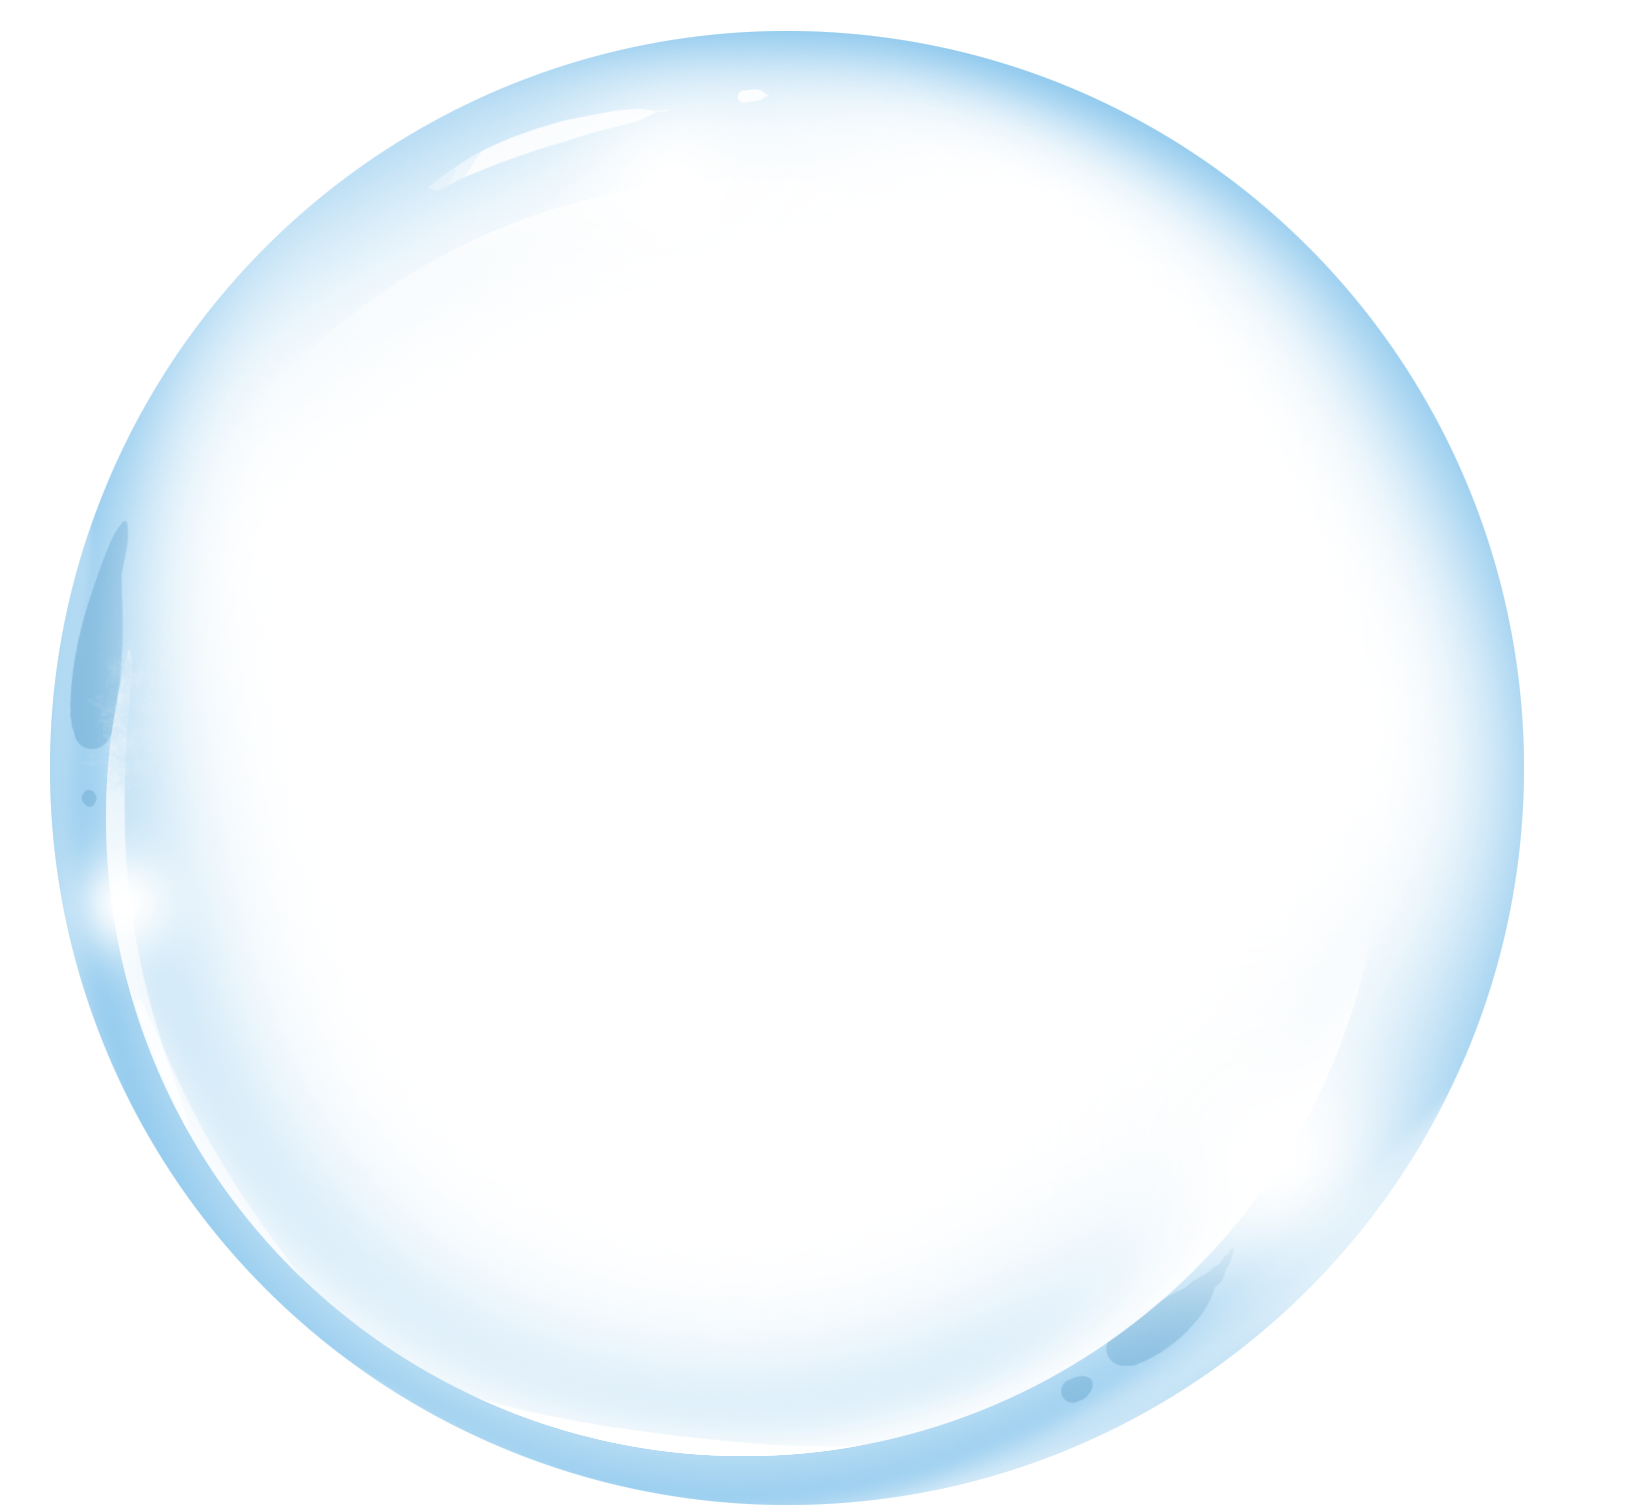
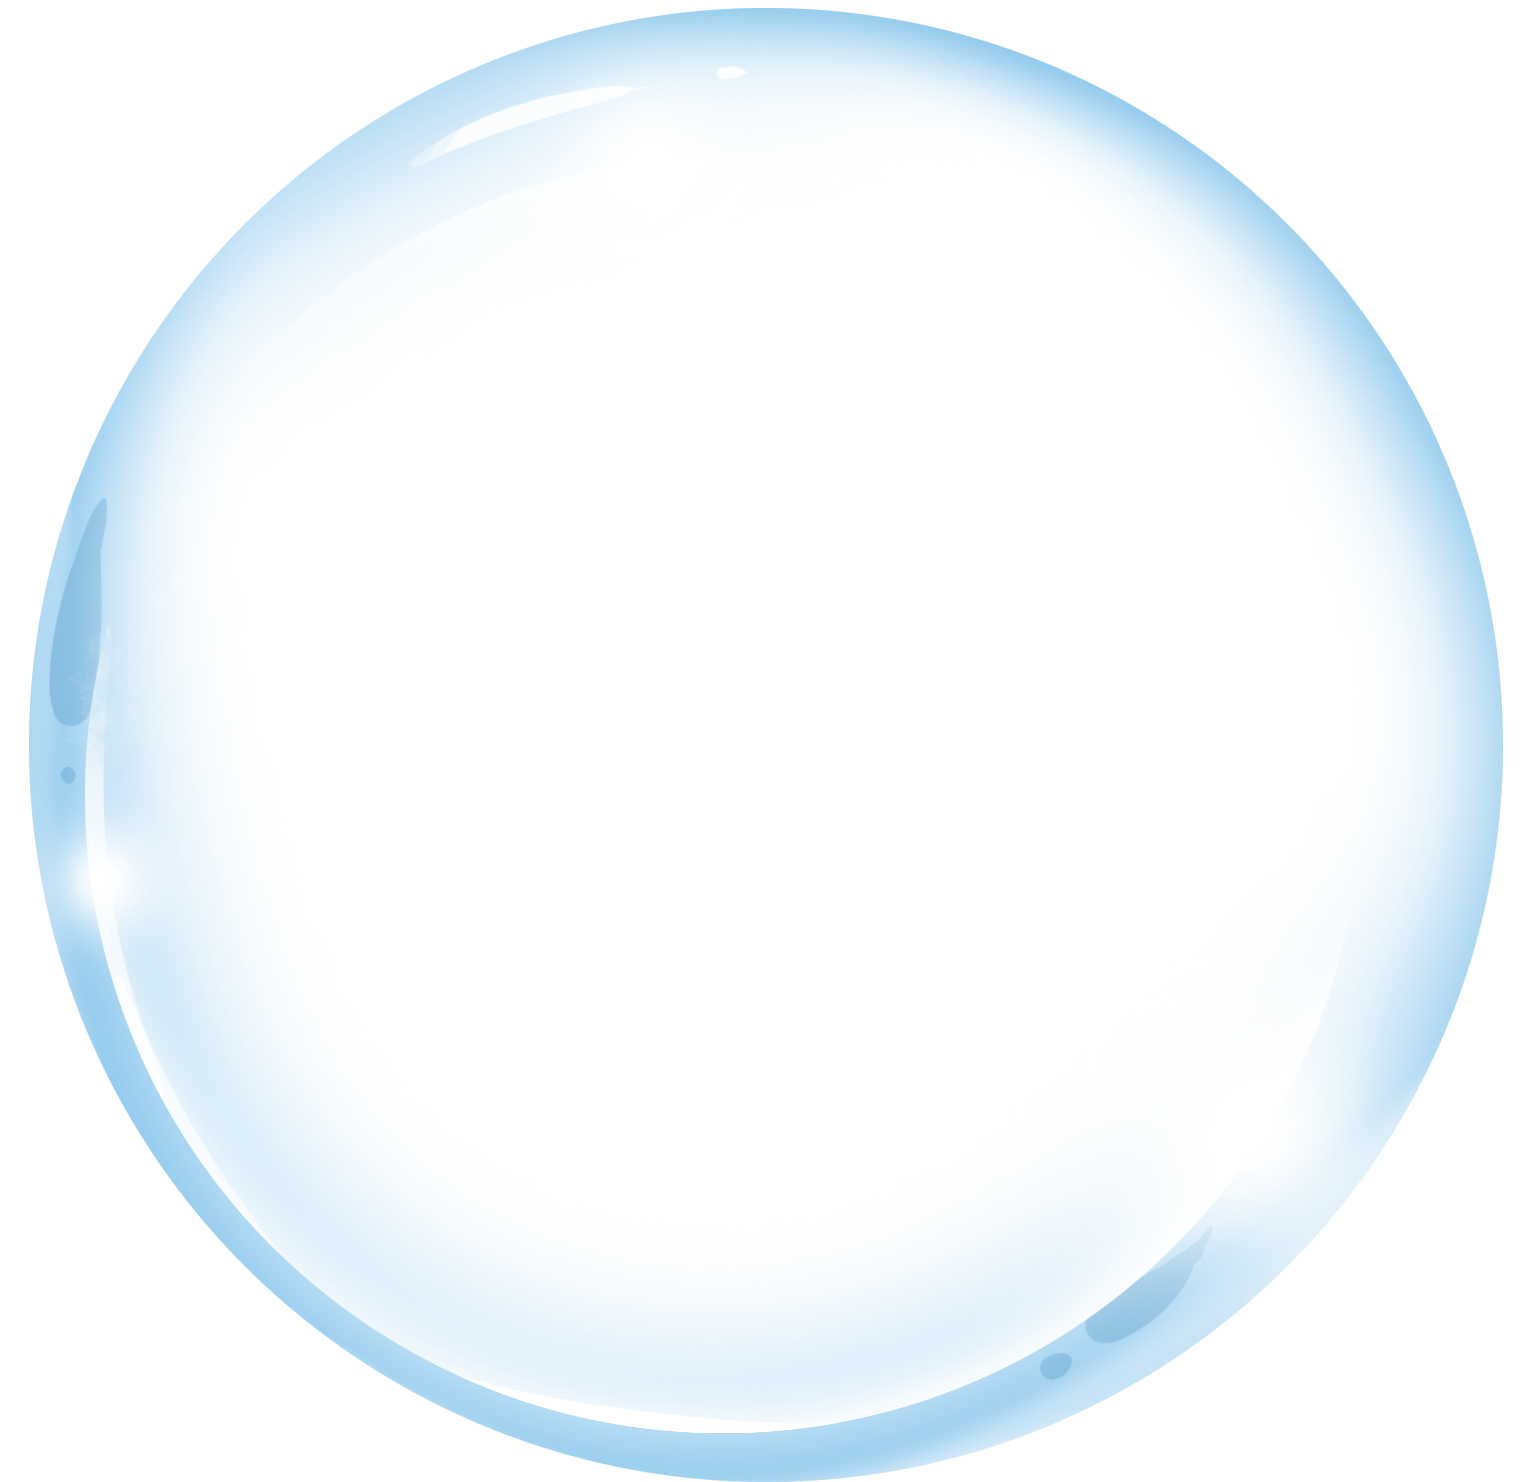
bubble design

diff --git a/components/sliderBox.js b/components/sliderBox.js
@@ -28,7 +28,7 @@ export default class SliderBox extends Component {
 	bubbleInput(){
 		return(
 			<View style={styles.valBox}>
-				<Image style={styles.bubble}source={require('../assets/img/bubble.png')}/>
+				<Image style={styles.bubble}source={require('../assets/img/bubble_vib.png')}/>
 				<TextInput 
 						style={styles.txtValBox}
 						// placeholder={this.state.curVal.toString()}
@@ -64,12 +64,12 @@ export default class SliderBox extends Component {
 				<View style={styles.sliderContainer}>
 					<View style={styles.legendCon}>
 						<View style={styles.sideBubble}>
-							<Image style={styles.bubble}source={require('../assets/img/bubble.png')}/>
+							<Image style={styles.bubble}source={require('../assets/img/bubble_vib.png')}/>
 							<Text style={styles.sliderTxtsub} >{this.state.minVal +this.state.unit}</Text>
 						</View>
 						{this.bubbleInput()}
 						<View style={styles.sideBubble}>
-							<Image style={styles.bubble} source={require('../assets/img/bubble.png')}/>
+							<Image style={styles.bubble} source={require('../assets/img/bubble_vib.png')}/>
 							<Text style={styles.sliderTxtsub} >{this.state.maxVal +this.state.unit}</Text>
 						</View>
 

diff --git a/routes/navigator.js b/routes/navigator.js
@@ -49,10 +49,10 @@ let hist = (
 )
 
 const screens = {
-	Home: {
-		screen: Home,
-		navigationOptions: headerStyle('Smart Anchor',hist),
-	},
+	// Home: {
+	// 	screen: Home,
+	// 	navigationOptions: headerStyle('Smart Anchor',hist),
+	// },
 	Settings: {
 		screen: Settings,
 		navigationOptions : headerStyle('Configuration'),

diff --git a/styles/styles.js b/styles/styles.js
@@ -201,8 +201,8 @@ export default StyleSheet.create({
     },
     bubble:{
         position:'absolute',
-        height:'114%',
-        width:'114%',
+        height:'110%',
+        width:'110%',
         resizeMode: 'contain',
     },
     txtValBox:{
